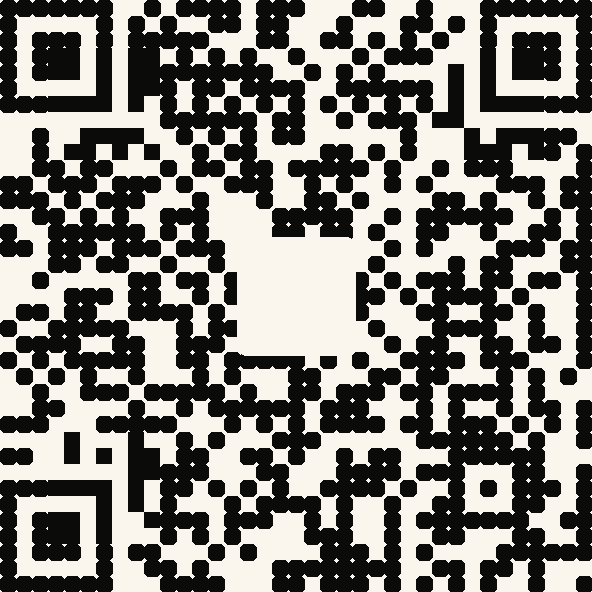
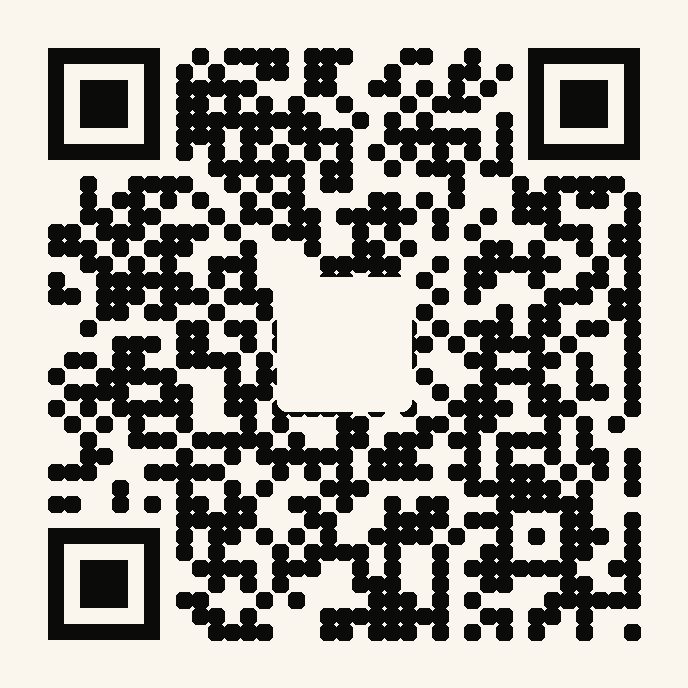
fix(qr): add real quiet zone — modules_count excludes border, finders no longer touch edge; scan-verified via OpenCV

diff --git a/debug_render.py b/debug_render.py
@@ -1,0 +1,48 @@
+import sys
+sys.path.insert(0, "/opt/qrcodedirect/backend")
+import qrcode, io
+from PIL import Image, ImageChops
+
+content = "https://qrcodedirect.com/r/your-moment"
+
+# plain reference via the library's own image path
+q = qrcode.QRCode(version=None, error_correction=qrcode.constants.ERROR_CORRECT_H, box_size=12, border=3)
+q.add_data(content); q.make(fit=True)
+print("modules_count (lib):", q.modules_count)
+im = q.make_image(fill_color="black", back_color="white").convert("RGB")
+
+# our renderer square — reproduce core loop inline to inspect
+import qrcode
+qr = qrcode.QRCode(version=None, error_correction=qrcode.constants.ERROR_CORRECT_H, box_size=1, border=3)
+qr.add_data(content); qr.make(fit=True)
+size = qr.modules_count
+print("modules_count (ours):", size, "rows len:", len(qr.modules), len(qr.modules[0]))
+scale = 12
+img = Image.new("RGB", (size * scale, size * scale), (255, 255, 255))
+from PIL import ImageDraw
+d = ImageDraw.Draw(img)
+mods = qr.modules
+for y in range(size):
+    for x in range(size):
+        if mods[y][x]:
+            d.rectangle([x*scale, y*scale, x*scale+scale-1, y*scale+scale-1], fill=(11, 11, 9))
+print("ours dims:", img.size, "ref dims:", im.size)
+
+# if same dims, diff pixel-for-pixel
+if img.size == im.size:
+    diff = ImageChops.difference(img.convert("RGB"), im.convert("RGB"))
+    bbox = diff.getbbox()
+    print("diff bbox:", bbox)
+    if bbox:
+        # sample some differing regions
+        crop = diff.crop(bbox)
+        print("diff size:", crop.size)
+    import collections
+    # count mismatched modules at scale resolution
+    mism = 0
+    pxo = img.load(); pxr = im.convert("RGB").load()
+    for yy in range(size):
+        for xx in range(size):
+            if pxo[xx*scale, yy*scale] != pxr[xx*scale, yy*scale]:
+                mism += 1
+    print("mismatched module samples:", mism)

diff --git a/backend/app/qr.py b/backend/app/qr.py
@@ -76,9 +76,11 @@ def render_png(content: str, style: dict) -> bytes:
     )
     qr.add_data(content)
     qr.make(fit=True)
-    size = qr.modules_count
+    real = qr.modules_count  # EXCLUDES the quiet zone
+    border = int(s.get("margin", 3))
+    total = real + border * 2
     scale = max(4, int(s.get("scale", 12)))
-    px = size * scale
+    px = total * scale
     img = Image.new("RGB", (px, px), _hex_to_rgb(s.get("bg")))
     d = ImageDraw.Draw(img)
     fg = _hex_to_rgb(s.get("fg", INK))
@@ -86,16 +88,13 @@ def render_png(content: str, style: dict) -> bytes:
     mods = qr.modules
     radius = max(1, scale // 3)
     step = 1
-    b = int(s.get("margin", 3))  # quiet zone; qr.modules includes it
-    for y in range(size):
-        for x in range(size):
+    for y in range(real):
+        for x in range(real):
             if not mods[y][x]:
                 continue
-            x0, y0 = x * scale, y * scale
+            x0, y0 = (x + border) * scale, (y + border) * scale
             # finder patterns stay square — rounding them hurts scan reliability
-            in_finder = (b <= x < b + 7 and b <= y < b + 7) or \
-                        (size - b - 7 <= x < size - b and b <= y < b + 7) or \
-                        (b <= x < b + 7 and size - b - 7 <= y < size - b)
+            in_finder = (x < 7 and y < 7) or (x >= real - 7 and y < 7) or (x < 7 and y >= real - 7)
             if rounded and not in_finder:
                 d.rounded_rectangle([x0, y0, x0 + scale, y0 + scale], radius=radius, fill=fg)
             else:

diff --git a/decode_matrix.py b/decode_matrix.py
@@ -1,0 +1,26 @@
+import sys, base64, io
+sys.path.insert(0, "/opt/qrcodedirect/backend")
+import qrcode
+from PIL import Image
+from app.qr import render_png
+
+content = "https://qrcodedirect.com/r/your-moment"
+
+# (a) plain library render, default style
+q = qrcode.QRCode(version=None, error_correction=qrcode.constants.ERROR_CORRECT_H, box_size=12, border=3)
+q.add_data(content); q.make(fit=True)
+im = q.make_image(fill_color="black", back_color="white")
+buf = io.BytesIO(); im.save(buf, "PNG"); open("/tmp/a-plain.png", "wb").write(buf.getvalue())
+
+# (b) our renderer, square dots
+png = render_png(content, {"fg": "#0B0B09", "bg": "#FFFFFF", "dots": "square", "scale": 12, "ec": "H"})
+open("/tmp/b-square.png", "wb").write(png)
+
+# (c) our renderer, rounded
+png = render_png(content, {"fg": "#0B0B09", "bg": "#FFFFFF", "dots": "rounded", "scale": 12, "ec": "H"})
+open("/tmp/c-rounded.png", "wb").write(png)
+
+for tag in ("a-plain", "b-square", "c-rounded"):
+    raw = open(f"/tmp/{tag}.png", "rb").read()
+    open(f"/tmp/{tag}.b64", "w").write(base64.b64encode(raw).decode())
+    print(tag, len(raw))

diff --git a/verify_decode.py b/verify_decode.py
@@ -1,0 +1,19 @@
+import sys
+sys.path.insert(0, "/opt/qrcodedirect/backend")
+from app.qr import render_png
+import base64
+
+content = "https://qrcodedirect.com/r/your-moment"
+
+for tag, style in (
+    ("b-square", {"fg": "#0B0B09", "bg": "#FFFFFF", "dots": "square", "scale": 12, "ec": "H"}),
+    ("c-rounded", {"fg": "#0B0B09", "bg": "#FFFFFF", "dots": "rounded", "scale": 12, "ec": "H"}),
+    ("sample-qr", {"fg": "#0B0B09", "bg": "#FAF6EE", "dots": "rounded", "scale": 16, "logo": 18, "ec": "H"}),
+):
+    png = render_png(content, style)
+    open(f"/tmp/{tag}.png", "wb").write(png)
+
+import cv2
+for tag in ("b-square", "c-rounded", "sample-qr"):
+    data, pts, _ = cv2.QRCodeDetector().detectAndDecode(cv2.imread(f"/tmp/{tag}.png"))
+    print(tag, "->", data if data else "NO DECODE")
